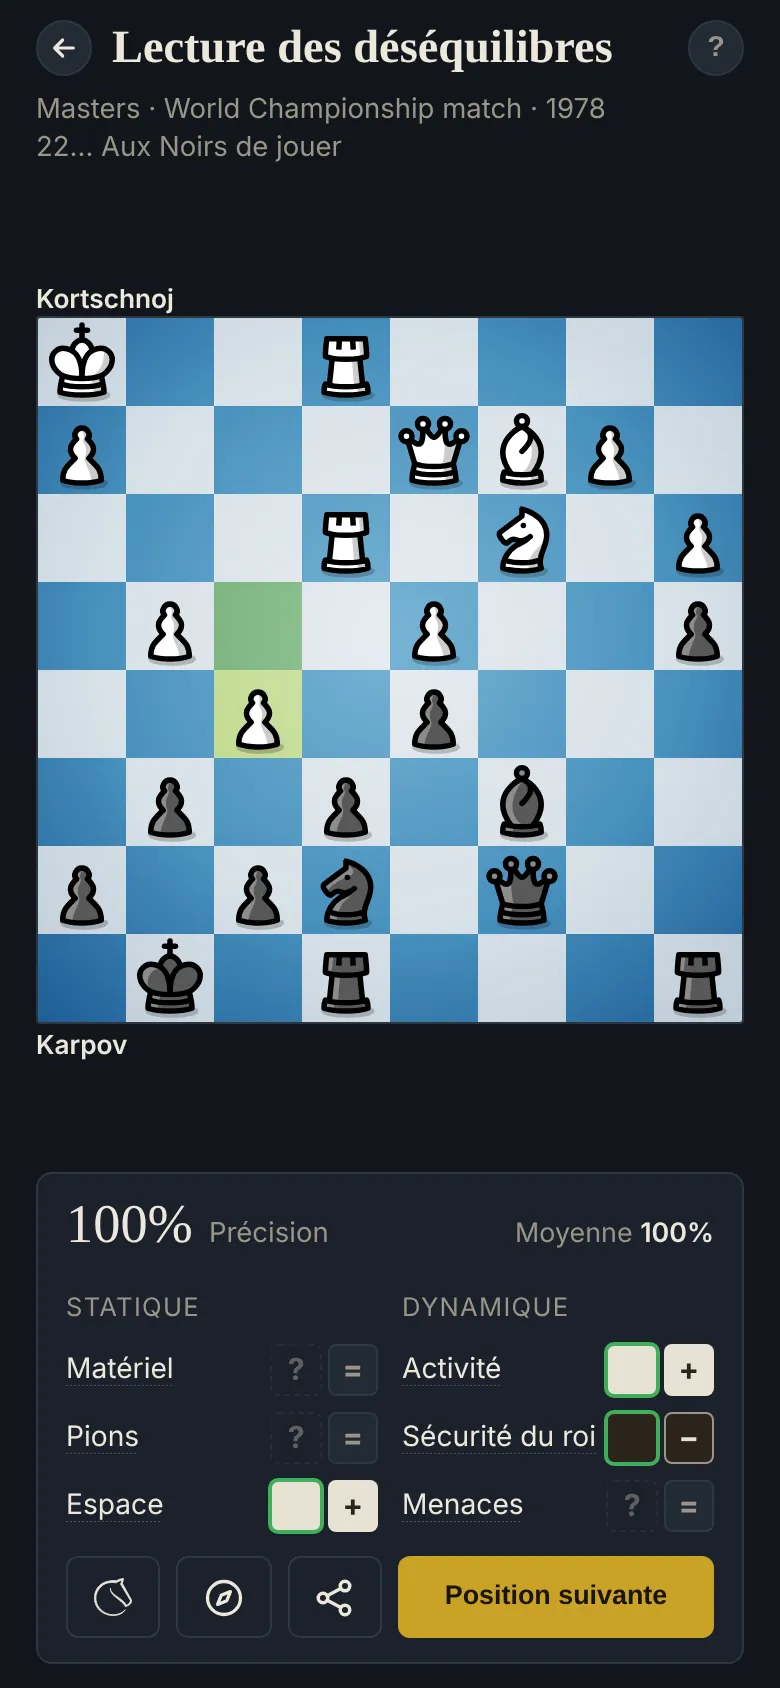
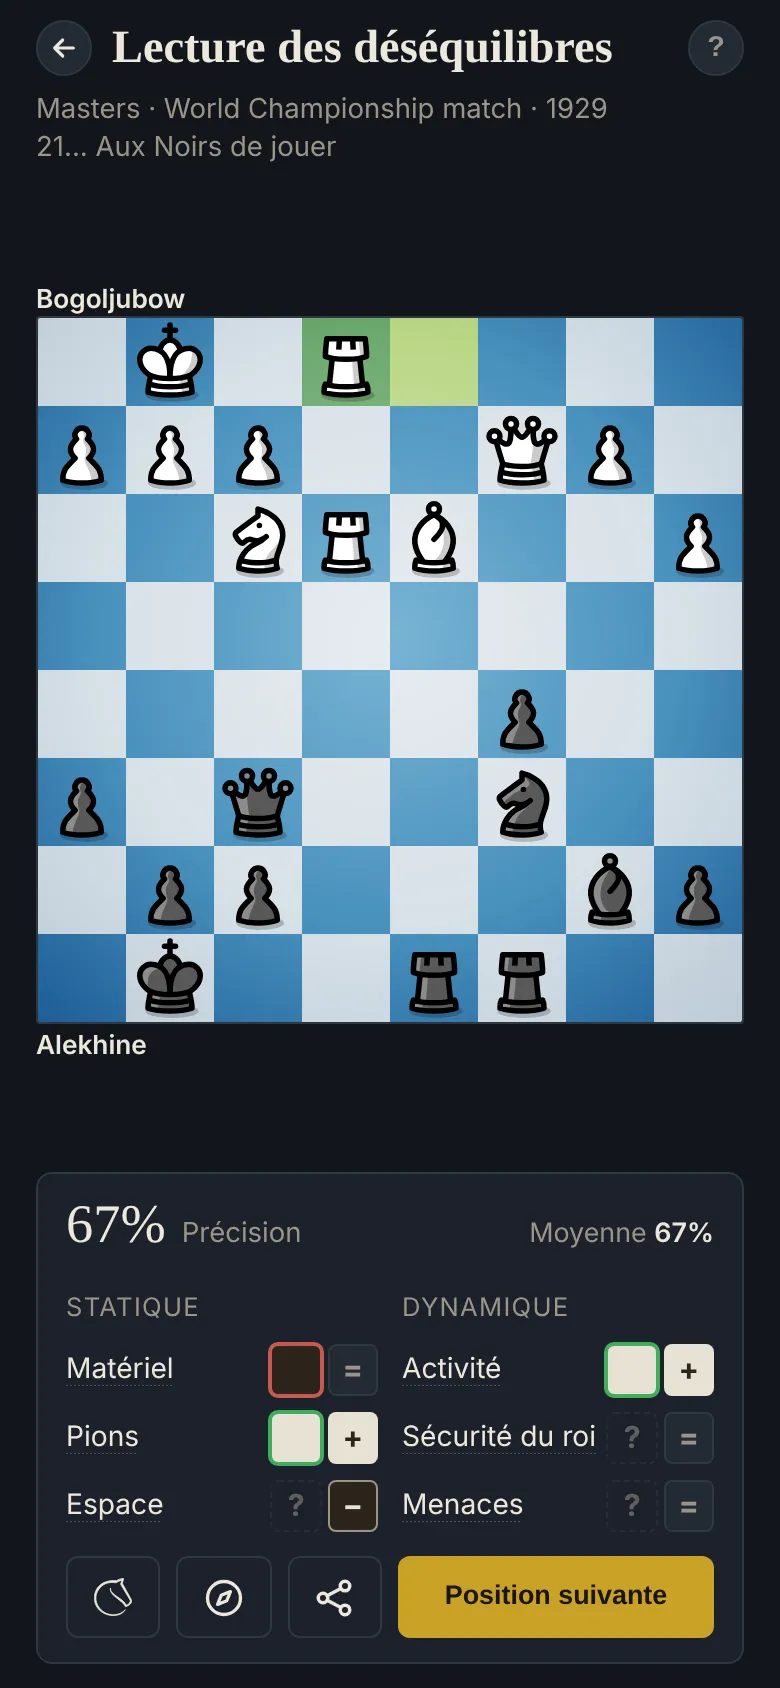
Imbalance reading guide: an example with one wrong answer
Claude-Session: https://claude.ai/code/session_01MnfZY7zM1xtVVHQnQ5TNNV

diff --git a/fr/guides/desequilibres-aux-echecs/index.html b/fr/guides/desequilibres-aux-echecs/index.html
@@ -54,7 +54,7 @@
 <h1>Lecture des déséquilibres</h1>
 <p class="sub">Apprendre à lire une position</p>
 <p class="lead">Chaque position est un ensemble de différences entre les deux camps. Les joueurs forts repèrent les quelques-unes qui décident de la partie, et bâtissent leur plan autour : une idée rendue célèbre par Jeremy Silman.</p>
-<figure><img src="../../../learn/img/imbalance-reading-fr.webp" width="390" height="844" alt="Correction de Lecture des déséquilibres sur une position du championnat du monde 1978 : Activité et Espace aux Blancs, Sécurité du roi aux Noirs, trois bonnes réponses" loading="lazy"><figcaption>Trois bonnes réponses : les Blancs ont les pièces les plus actives et plus d'espace, les Noirs le roi le plus sûr.</figcaption></figure>
+<figure><img src="../../../learn/img/imbalance-reading-fr.webp" width="390" height="844" alt="Correction de Lecture des déséquilibres sur une position du championnat du monde 1929 : Activité et Pions aux Blancs, justes ; Matériel donné aux Noirs alors qu&#x27;il est équilibré ; Espace aux Noirs manqué" loading="lazy"><figcaption>Activité et Pions aux Blancs : juste. Le Matériel a été donné aux Noirs, mais il est équilibré : c'est l'Espace, l'avantage des Noirs, qu'il fallait choisir.</figcaption></figure>
 <h2>Les six déséquilibres</h2>
 <ul>
   <li><strong>Matériel</strong> : pion 1, cavalier et fou 3, tour 5, dame 9 ; la paire de fous ajoute un demi-pion.</li>

diff --git a/learn/chess-imbalances/index.html b/learn/chess-imbalances/index.html
@@ -54,7 +54,7 @@
 <h1>Imbalance reading</h1>
 <p class="sub">Learn to read a position</p>
 <p class="lead">Every position is a set of differences between the two sides. Strong players spot the few that decide the game, and plan around them: an idea made famous by Jeremy Silman.</p>
-<figure><img src="../../learn/img/imbalance-reading.webp" width="390" height="844" alt="Imbalance reading review on a 1929 World Championship position: Activity and Pawns to White, Space to Black, all three answers right" loading="lazy"><figcaption>All three answers right: White has the more active pieces and the better pawns, Black more space.</figcaption></figure>
+<figure><img src="../../learn/img/imbalance-reading.webp" width="390" height="844" alt="Imbalance reading review on a 1929 World Championship position: Activity and Pawns to White right, Material given to Black while balanced, Space to Black missed" loading="lazy"><figcaption>Activity and Pawns to White: right. Material was given to Black, but it's balanced: Space, Black's edge, was the one to pick.</figcaption></figure>
 <h2>The six imbalances</h2>
 <ul>
   <li><strong>Material</strong>: pawn 1, knight and bishop 3, rook 5, queen 9; the bishop pair adds half a pawn.</li>

diff --git a/scripts/build-pages.py b/scripts/build-pages.py
@@ -16,8 +16,8 @@ GUIDES = [
       title='Chess imbalances: learn to read a position',
       desc='What chess imbalances are (material, pawns, space, activity, king safety, threats), how to weigh them, and a free exercise to practise reading them on master games and your own games.',
       lead="Every position is a set of differences between the two sides. Strong players spot the few that decide the game, and plan around them: an idea made famous by Jeremy Silman.",
-      alt='Imbalance reading review on a 1929 World Championship position: Activity and Pawns to White, Space to Black, all three answers right',
-      caption='All three answers right: White has the more active pieces and the better pawns, Black more space.',
+      alt='Imbalance reading review on a 1929 World Championship position: Activity and Pawns to White right, Material given to Black while balanced, Space to Black missed',
+      caption="Activity and Pawns to White: right. Material was given to Black, but it's balanced: Space, Black's edge, was the one to pick.",
       body="""
 <h2>The six imbalances</h2>
 <ul>
@@ -38,8 +38,8 @@ GUIDES = [
       title='Les déséquilibres aux échecs : apprendre à lire une position',
       desc="Ce que sont les déséquilibres aux échecs (matériel, pions, espace, activité, sécurité du roi, menaces), comment les peser, et un exercice gratuit pour s'entraîner à les lire sur des parties de maîtres et vos propres parties.",
       lead="Chaque position est un ensemble de différences entre les deux camps. Les joueurs forts repèrent les quelques-unes qui décident de la partie, et bâtissent leur plan autour : une idée rendue célèbre par Jeremy Silman.",
-      alt='Correction de Lecture des déséquilibres sur une position du championnat du monde 1978 : Activité et Espace aux Blancs, Sécurité du roi aux Noirs, trois bonnes réponses',
-      caption="Trois bonnes réponses : les Blancs ont les pièces les plus actives et plus d'espace, les Noirs le roi le plus sûr.",
+      alt="Correction de Lecture des déséquilibres sur une position du championnat du monde 1929 : Activité et Pions aux Blancs, justes ; Matériel donné aux Noirs alors qu'il est équilibré ; Espace aux Noirs manqué",
+      caption="Activité et Pions aux Blancs : juste. Le Matériel a été donné aux Noirs, mais il est équilibré : c'est l'Espace, l'avantage des Noirs, qu'il fallait choisir.",
       body="""
 <h2>Les six déséquilibres</h2>
 <ul>
